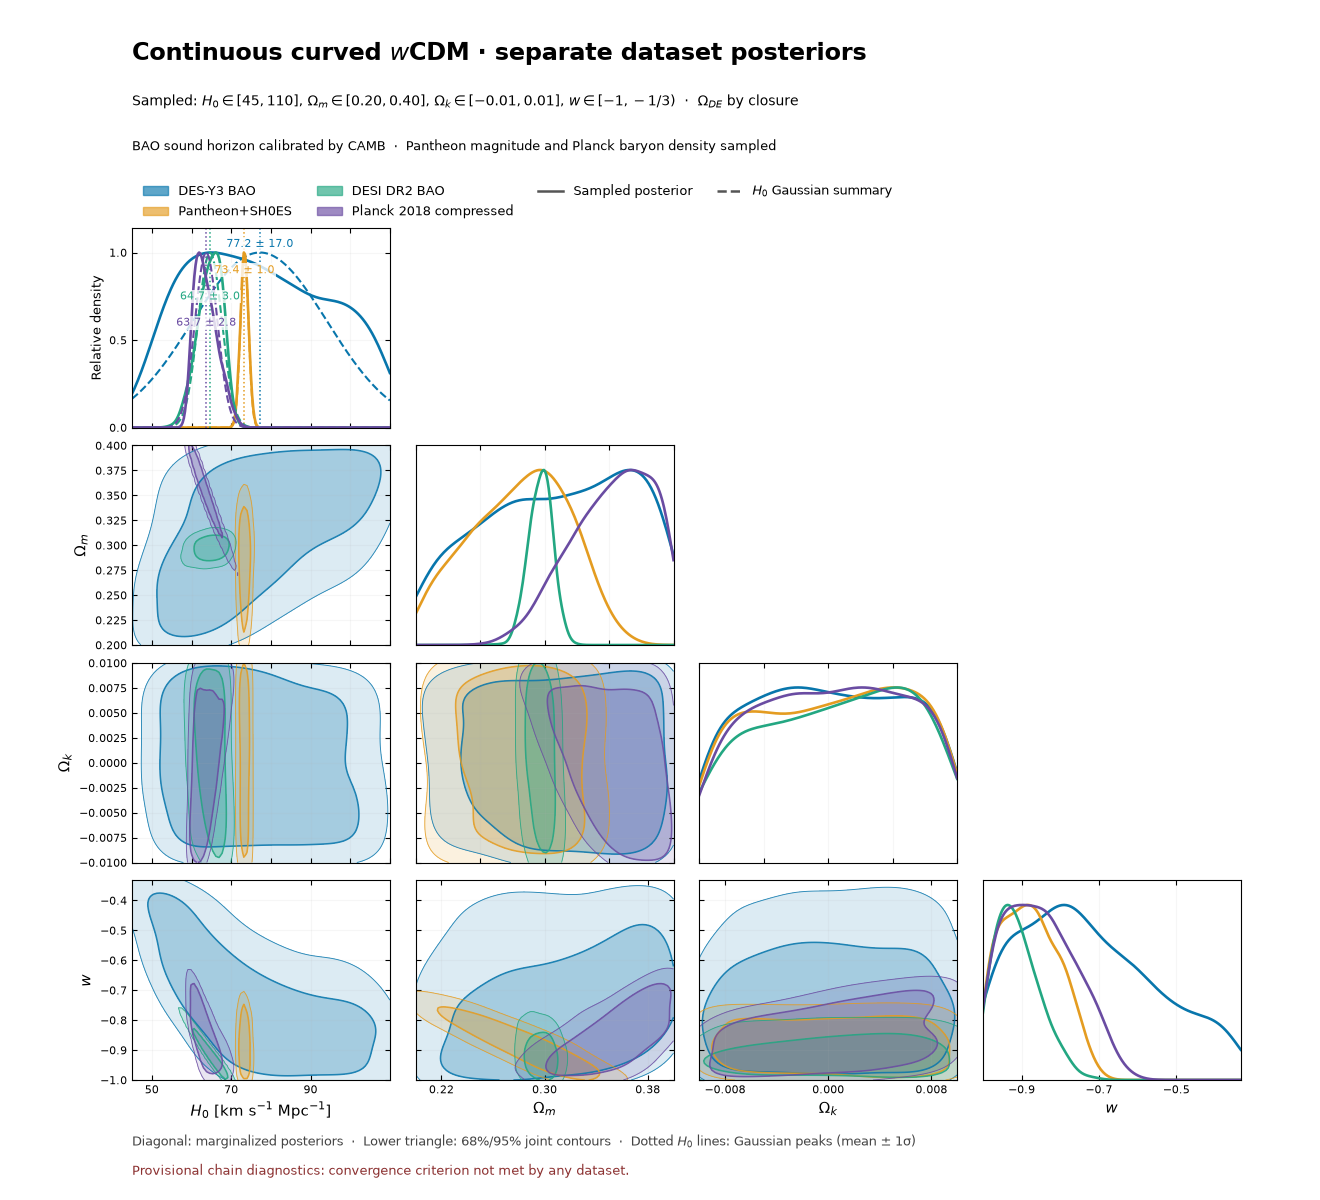
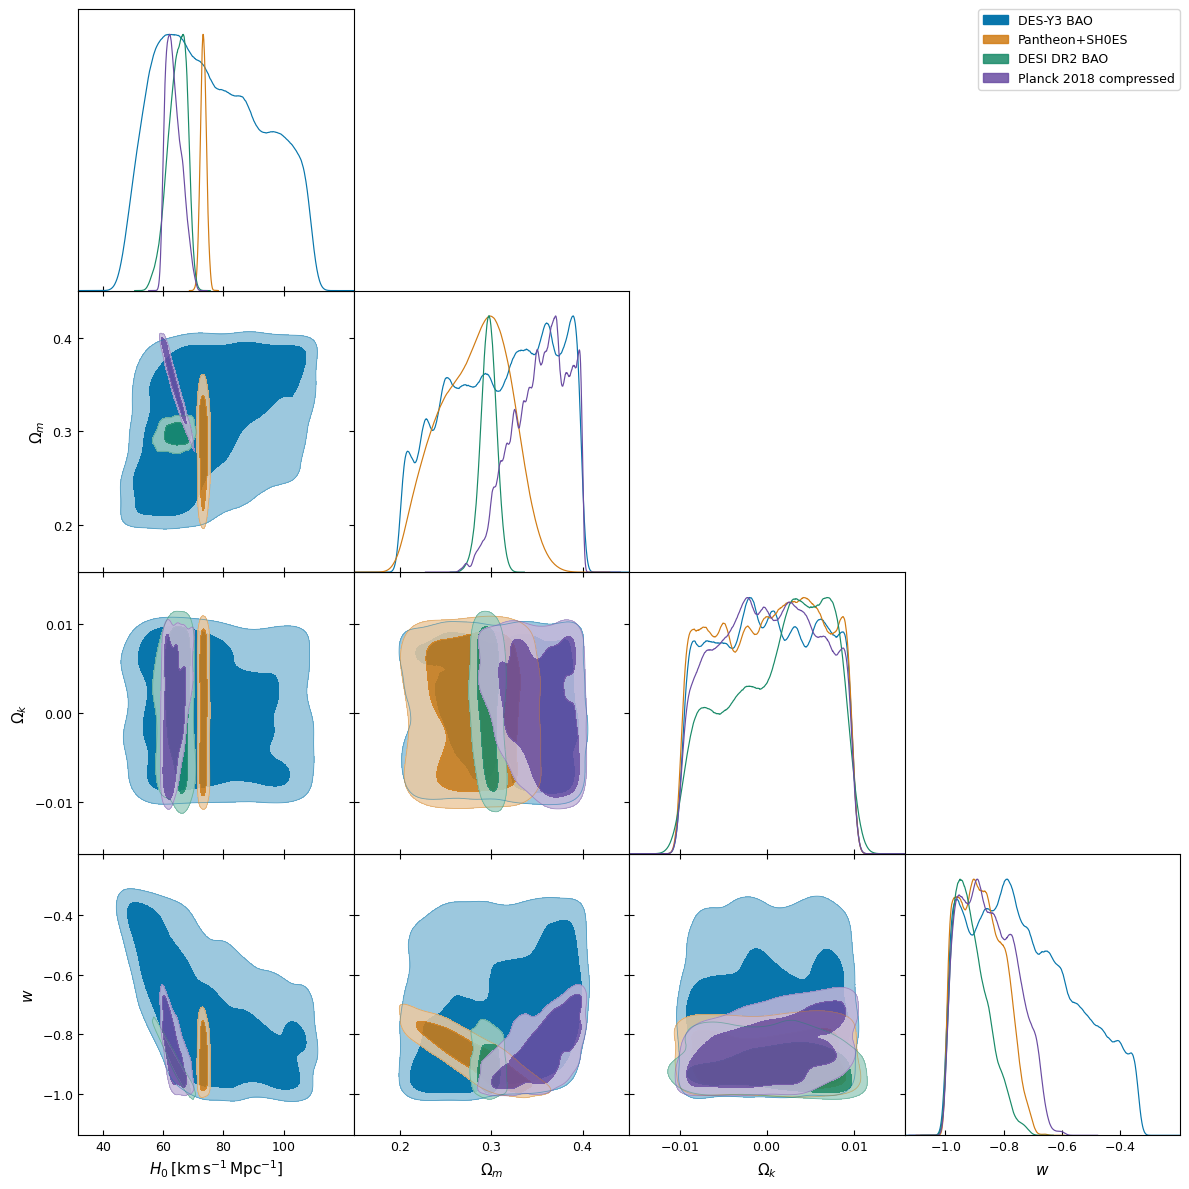
Agent Host changes for agents/add-comments-to-plotting-functions

diff --git a/scripts/hubble_analysis.py b/scripts/hubble_analysis.py
@@ -14,11 +14,6 @@ import sys
 import tempfile
 from pathlib import Path
 
-os.environ.setdefault("MPLCONFIGDIR", os.path.join(tempfile.gettempdir(), "cosmosis_h0_mplconfig"))
-Path(os.environ["MPLCONFIGDIR"]).mkdir(parents=True, exist_ok=True)
-import matplotlib
-matplotlib.use("Agg")
-import matplotlib.pyplot as plt
 import numpy as np
 from scipy.stats import gaussian_kde, norm, skew
 
@@ -285,6 +280,7 @@ def run_fit(label: str, ini_name: str, output_name: str, sampled_params: tuple[s
 
 
 def posterior_samples(path: Path):
+    """Return finite post-burn H0 samples in km/s/Mpc from a saved chain."""
     header, chain = read_chain(path)
     burn = int(chain.shape[0] * 0.3)
     h0 = chain[burn:, :, header.index("cosmological_parameters--h0")].reshape(-1) * 100.0
@@ -292,6 +288,11 @@ def posterior_samples(path: Path):
 
 
 def density_summary(samples: np.ndarray, *, plot_points: int = 512):
+    """Summarize H0 samples and tabulate KDE/Gaussian curves for plotting.
+
+    The plot grid spans the central 99.6% of samples. The Gaussian uses the
+    sample mean and standard deviation as an approximation to the posterior.
+    """
     if len(samples) < 100:
         raise RuntimeError("Too few post-burn-in samples for a posterior summary")
     mu, sd = float(np.mean(samples)), float(np.std(samples, ddof=1))
@@ -307,38 +308,11 @@ def density_summary(samples: np.ndarray, *, plot_points: int = 512):
             "plot_x": x, "plot_kde": empirical, "plot_gaussian": gaussian}
 
 
-def make_figure(summaries: dict[str, dict], out_dir: Path):
-    colors = {"Pantheon+SH0ES": "#b33b3b", "DES-Y3 BAO": "#326a93"}
-    fig, ax = plt.subplots(figsize=(9.2, 5.4))
-    for label, summary in summaries.items():
-        color = colors[label]
-        x = summary["plot_x"]
-        ax.plot(x, summary["plot_gaussian"], color=color, lw=2.6,
-                label=f"{label}: Gaussian peak {summary['mean_and_gaussian_peak']:.2f} ± {summary['gaussian_sigma']:.2f}")
-        ax.plot(x, summary["plot_kde"], color=color, lw=1.5, ls=":", alpha=.85,
-                label=f"{label}: sampled posterior KDE")
-        peak = summary["mean_and_gaussian_peak"]
-        ax.axvline(peak, color=color, lw=1.6, ls="--")
-        label_y_offset = -20 if label == "Pantheon+SH0ES" else 8
-        ax.annotate(f"{peak:.2f}", (peak, norm.pdf(peak, peak, summary["gaussian_sigma"])),
-                    xytext=(4, label_y_offset), textcoords="offset points", color=color, fontsize=9)
-    ax.set(xlabel=r"$H_0$ [km s$^{-1}$ Mpc$^{-1}$]", ylabel="Posterior density",
-           title=(r"Flat $w$CDM: DES-Y3 BAO and Pantheon+SH0ES"
-                  "\n" + r"fixed $\Omega_m=0.30$, $\Omega_k=0$; sampled $w\in[-1,-1/3]$"))
-    ax.grid(alpha=.22)
-    ax.legend(frameon=False, fontsize=8)
-    fig.tight_layout()
-    figure_dir = HERE / "output" / "flat_wcdm"
-    figure_dir.mkdir(parents=True, exist_ok=True)
-    fig.savefig(figure_dir / "h0_gaussian_comparison.png", dpi=220)
-    plt.close(fig)
-
-
 def write_report(summaries: dict[str, dict], convergence: list[dict], out_dir: Path):
     lines = ["# DES-Y3 BAO and Pantheon+SH0ES: Hubble-constant comparison", "",
              "Both likelihoods are fit independently in flat constant-\\(w\\) CDM with \\Omega_m=0.3 fixed. The sampled parameters are \\(H_0\\) and \\(w\\); Pantheon+SH0ES also samples its absolute-magnitude nuisance parameter. DES-Y3 uses the standard early-Universe CAMB sound-horizon calculation with fixed input densities, so its absolute \\(H_0\\) posterior is conditional on that ruler calibration.", "",
              "Inputs are read from the shared standard-library DES-Y3 BAO chi-square profile and Pantheon+SH0ES data/covariance; no likelihood data are copied into this project. The CAMB calibration fixes \\(\\omega_b=0.048\\), \\(A_s=2.19\\times10^{-9}\\), \\(n_s=0.97\\), \\(N_{eff}=3.046\\), and the standard photon temperature.", "",
-             "The figure overlays Gaussian summaries of the marginalized posteriors. Each dashed marker is the Gaussian peak (the posterior sample mean); dotted curves show KDE estimates from the actual samples. The Gaussian is an approximation, assessed with skewness and KDE-to-Gaussian distance.", "",
+             "The Gaussian is an approximation to each marginalized posterior, assessed with skewness and KDE-to-Gaussian distance.", "",
              "## Main physical-prior results", "",
              "| Dataset | Gaussian peak H₀ | 68% posterior interval | Gaussian σ | Skewness | KDE/Gaussian L1 | Samples |", "|---|---:|---:|---:|---:|---:|---:|"]
     for name, summary in summaries.items():
@@ -358,7 +332,7 @@ def write_report(summaries: dict[str, dict], convergence: list[dict], out_dir: P
               "    D --> E",
               "    E --> F[Check integrated autocorrelation and ESS]",
               "    F --> G[Marginalize H0; summarize mean, sigma, and 68% interval]",
-              "    G --> H[Overlay Gaussian peaks and sampled-posterior KDEs]",
+              "    G --> H[Report separate posterior summaries]",
               "    G --> I[Repeat broad-w and +/-1% rd sensitivity fits]",
               "    H --> J[Report separate constraints and calibration dependence]",
               "    I --> J",
@@ -368,7 +342,7 @@ def write_report(summaries: dict[str, dict], convergence: list[dict], out_dir: P
         final = item["history"][-1]
         lines.append(f"- {item['dataset']}: converged with {final['steps_per_walker']:,} steps/walker; steps/\\(\\tau\\) = {', '.join(f'{x:.1f}' for x in final['steps_per_tau'])}; ESS = {', '.join(f'{x:.0f}' for x in final['effective_sample_size'])}.")
     lines += ["", "## Gaussian approximation and sensitivity", "",
-              "The DES-Y3 BAO posterior is much broader than Pantheon+SH0ES and its KDE/Gaussian L1 distance is comparatively large, so its Gaussian curve is a visual summary rather than a complete description. Use the separate 68% interval and dotted KDE when reading its uncertainty. Flat-model broad-\\(w\\) and ±1% \\(r_d\\) sensitivity results are in `../sensitivity/README.md`; the phantom-inclusive prior is phenomenological, and the ruler shifts quantify the BAO calibration dependence.", ""]
+              "The DES-Y3 BAO posterior is much broader than Pantheon+SH0ES and its KDE/Gaussian L1 distance is comparatively large, so its Gaussian summary is not a complete description. Use the separate 68% interval when reading its uncertainty. Flat-model broad-\\(w\\) and ±1% \\(r_d\\) sensitivity results are in `../sensitivity/README.md`; the phantom-inclusive prior is phenomenological, and the ruler shifts quantify the BAO calibration dependence.", ""]
     (out_dir / "README.md").write_text("\n".join(lines))
 
 
@@ -458,14 +432,13 @@ def main():
                                output_subdir=".run-data/flat_wcdm"))
         summaries[label] = density_summary(posterior_samples(HERE / ".run-data" / "flat_wcdm" / chain))
     out_dir = HERE / ".run-data" / "flat_wcdm"
-    make_figure(summaries, out_dir)
     write_report(summaries, results, out_dir)
     serializable = {name: {k: v for k, v in summary.items() if not k.startswith("plot_")}
                     for name, summary in summaries.items()}
     (out_dir / "posterior_summary.json").write_text(json.dumps(serializable, indent=2) + "\n")
     if args.sensitivity:
         run_sensitivity()
-    print(f"Wrote {out_dir / 'h0_gaussian_comparison.png'} and {out_dir / 'README.md'}")
+    print(f"Wrote {out_dir / 'README.md'}")
 
 
 if __name__ == "__main__":

diff --git a/scripts/getdist_corner.py b/scripts/getdist_corner.py
@@ -1,0 +1,90 @@
+"""Render GetDist corner plots from the saved continuous CosmoSIS chains.
+
+The four likelihoods were run independently. The comparison therefore overlays
+only their shared parameters; individual figures include every varied parameter.
+"""
+
+from pathlib import Path
+
+import matplotlib
+
+matplotlib.use("Agg")
+
+import numpy as np
+from getdist import MCSamples, plots
+
+
+ROOT = Path(__file__).resolve().parent.parent
+CHAINS = ROOT / ".run-data" / "continuous"
+FIGURES = ROOT / "output" / "continuous" / "figures"
+BURN_FRACTION = 0.30
+THIN = 10
+COMMON = ("h0", "omega_m", "omega_k", "w")
+PARAMETERS = {
+    "cosmological_parameters--h0": ("h0", r"H_0\,[\mathrm{km}\,\mathrm{s}^{-1}\,\mathrm{Mpc}^{-1}]", 100),
+    "cosmological_parameters--omega_m": ("omega_m", r"\Omega_m", 1),
+    "cosmological_parameters--omega_k": ("omega_k", r"\Omega_k", 1),
+    "cosmological_parameters--w": ("w", "w", 1),
+    "supernova_params--m": ("m", "M", 1),
+    "cosmological_parameters--omega_b": ("omega_b", r"\Omega_b", 1),
+}
+RUNS = (
+    ("des_y3_bao", "DES-Y3 BAO", "#0876ac"),
+    ("pantheonplussh0es", "Pantheon+SH0ES", "#d17b13"),
+    ("desi_dr2_bao", "DESI DR2 BAO", "#198a68"),
+    ("planck_compressed", "Planck 2018 compressed", "#6a4ca2"),
+)
+
+
+def load_chain(stem, label):
+    """Load one CosmoSIS chain as labeled GetDist samples for corner plots.
+
+    Drop the prior/post columns, discard the initial burn fraction, thin the
+    remaining rows, and convert the stored h0 fraction to H0 in km/s/Mpc.
+    """
+    path = CHAINS / f"{stem}.txt"
+    with path.open(encoding="utf-8") as stream:
+        header = stream.readline().removeprefix("#").strip().split("\t")
+    if len(header) < 3 or header[-2:] != ["prior", "post"]:
+        raise ValueError(f"Unexpected CosmoSIS header in {path}")
+    unknown = set(header[:-2]) - PARAMETERS.keys()
+    if unknown:
+        raise ValueError(f"Unrecognised varied parameters in {path}: {sorted(unknown)}")
+    values = np.loadtxt(path, comments="#", delimiter="\t", ndmin=2)
+    if values.shape[1] != len(header) or len(values) < 1000:
+        raise ValueError(f"Incomplete or malformed chain in {path}: {values.shape}")
+    if not np.isfinite(values).all():
+        raise ValueError(f"Nonfinite chain entries in {path}")
+    values = values[int(len(values) * BURN_FRACTION)::THIN, :len(header) - 2]
+    names, labels, scales = zip(*(PARAMETERS[name] for name in header[:-2]))
+    samples = values * np.asarray(scales)
+    return MCSamples(samples=samples, names=list(names), labels=list(labels),
+                     label=label, settings={"ignore_rows": 0})
+
+
+def render(samples, params, colors, labels, destination, width):
+    """Export a filled triangle plot for the chosen samples and parameters."""
+    plotter = plots.get_subplot_plotter(width_inch=width)
+    plotter.settings.num_plot_contours = 2
+    plotter.settings.axes_fontsize = 10
+    plotter.settings.lab_fontsize = 12
+    plotter.settings.legend_fontsize = 10
+    plotter.triangle_plot(samples, params=list(params), filled=True,
+                         contour_colors=list(colors), legend_labels=list(labels),
+                         legend_loc="upper right")
+    plotter.export(str(destination))
+
+
+def main():
+    """Write the shared-parameter overlay and each chain's full corner plot."""
+    FIGURES.mkdir(parents=True, exist_ok=True)
+    chains = [load_chain(stem, label) for stem, label, _ in RUNS]
+    render(chains, COMMON, [color for _, _, color in RUNS],
+           [label for _, label, _ in RUNS], FIGURES / "continuous_corner.png", 12)
+    for chain, (stem, label, color) in zip(chains, RUNS):
+        render([chain], chain.getParamNames().list(), [color], [label],
+               FIGURES / f"continuous_corner_{stem}.png", 10)
+
+
+if __name__ == "__main__":
+    main()

diff --git a/scripts/continuous_postprocess.py b/scripts/continuous_postprocess.py
@@ -26,6 +26,11 @@ COLORS = ("#0876ac", "#e49c21", "#23a782", "#6a4ca2")
 
 
 def contour_levels(density, xs, ys, gx, gy):
+    """Return 95% and 68% KDE levels using sample counts on the KDE grid.
+
+    Ordering cells by density and accumulating their sample counts yields
+    contour thresholds for the empirical credible regions.
+    """
     dx, dy = gx[1] - gx[0], gy[1] - gy[0]
     counts, _, _ = np.histogram2d(xs, ys,
                                   bins=[np.r_[gx - dx / 2, gx[-1] + dx / 2],
@@ -39,7 +44,10 @@ def contour_levels(density, xs, ys, gx, gy):
 
 
 class ContinuousCorner(PostProcessorElement):
+    """Accumulate each independent chain into the comparison plot products."""
+
     def run(self):
+        """Draw one dataset's histograms, H0 summary, and corner contours."""
         index = self.source.index
         if index >= len(DATASETS):
             raise ValueError("Expected one chain for each dataset")
@@ -90,6 +98,7 @@ class ContinuousCorner(PostProcessorElement):
         shared_ax = shared_product.value.axes[index]
         shared_edges = np.linspace(50, 80, 61)
         bin_width = shared_edges[1] - shared_edges[0]
+        # Normalize against the full chain so the visible area shows its fraction in range.
         weights = np.full(len(vectors[0]), 1.0 / (len(vectors[0]) * bin_width))
         shared_ax.hist(vectors[0], bins=shared_edges, weights=weights,
                        color=color, edgecolor="white", linewidth=0.3, alpha=0.86)
@@ -157,6 +166,7 @@ class ContinuousCorner(PostProcessorElement):
                     84, [PARAMETERS[column][2], PARAMETERS[row][2]])
                 outer, inner = contour_levels(density, xs, ys, gx, gy)
                 upper = float(density.max()) * 1.001
+                # Nearly flat or coincident levels cannot define nested contours.
                 if 0 < outer < inner < upper:
                     ax.contourf(gx, gy, density.T, levels=[outer, upper], colors=[color], alpha=0.14)
                     ax.contourf(gx, gy, density.T, levels=[inner, upper], colors=[color], alpha=0.26)
@@ -170,6 +180,7 @@ class ContinuousCorner(PostProcessorElement):
 
     @staticmethod
     def new_histogram_figure(shared=False):
+        """Prepare four H0 histograms, optionally with a common 50-80 axis."""
         fig, axes = plt.subplots(2, 2, figsize=(12.2, 8.8), facecolor="white")
         fig.subplots_adjust(left=0.09, right=0.97, bottom=0.13, top=0.80,
                             hspace=0.34, wspace=0.23)
@@ -206,6 +217,7 @@ class ContinuousCorner(PostProcessorElement):
 
     @staticmethod
     def new_parameter_histogram_figure():
+        """Prepare dataset rows and shared-parameter columns for chain histograms."""
         fig, axes = plt.subplots(4, 4, figsize=(13.2, 11.4), facecolor="white")
         fig.subplots_adjust(left=0.16, right=0.97, bottom=0.10, top=0.84,
                             hspace=0.38, wspace=0.29)
@@ -236,6 +248,7 @@ class ContinuousCorner(PostProcessorElement):
 
     @staticmethod
     def new_h0_figure():
+        """Prepare the axis for overlaid Gaussian H0 summaries from each chain."""
         fig, ax = plt.subplots(figsize=(14.0, 6.4), facecolor="white")
         fig.subplots_adjust(left=0.08, right=0.60, bottom=0.24, top=0.78)
         ax.set_xlim(*PARAMETERS[0][2])
@@ -261,6 +274,7 @@ class ContinuousCorner(PostProcessorElement):
 
     @staticmethod
     def new_figure():
+        """Prepare the four-parameter corner grid and cache its axes for reuse."""
         fig, axes = plt.subplots(4, 4, figsize=(13.2, 12.0), facecolor="white")
         fig.subplots_adjust(left=0.10, right=0.94, bottom=0.10, top=0.81,
                             hspace=0.09, wspace=0.10)

diff --git a/scripts/curved_analysis.py b/scripts/curved_analysis.py
@@ -86,6 +86,7 @@ def validation_grid():
 
 
 def posterior_samples(header, chain):
+    """Extract finite H0 and w samples after burn-in for summaries and plots."""
     burn = int(0.3 * chain.shape[0])
     h0 = chain[burn:, :, header.index("cosmological_parameters--h0")].reshape(-1) * 100.0
     w = chain[burn:, :, header.index("cosmological_parameters--w")].reshape(-1)
@@ -96,6 +97,7 @@ def posterior_samples(header, chain):
 
 
 def summarize(samples):
+    """Keep the H0 statistics used to label the fixed-curvature figures."""
     summary = base.density_summary(samples, plot_points=500)
     return {
         "gaussian_peak_H0": summary["mean_and_gaussian_peak"],
@@ -152,7 +154,6 @@ def write_report(results, convergence):
               "values are in `physics_validation.json`.", "",
               "## Figures and data", "",
               "- `native_postprocess/corner/h0_w_corner.png`: H0–w corner comparison for both datasets; color distinguishes the three fixed Ωk runs. The contours use samples thinned by ten after burn-in.",
-              "- `native_postprocess/`: CosmoSIS-native H0 and w posterior PNG curves, with separate comparisons for each Ωk.",
               "- `curved_summary.json` and `curved_summary.csv`: machine-readable posterior summaries.",
               "- The six CosmoSIS text chains and convergence JSON files are retained alongside the figures.", "",
               "The DES-Y3 BAO sampled H0 posterior rises toward its upper prior bound, "

diff --git a/scripts/continuous_analysis.py b/scripts/continuous_analysis.py
@@ -100,6 +100,7 @@ def fit(label, setting):
 
 
 def summarize(label, chain_name, audit):
+    """Summarize one chain, including the H0 values shown on comparison plots."""
     header, chain = base.read_chain(OUT / chain_name)
     samples = chain[int(0.3 * len(chain)):].reshape(-1, len(header))
     get = lambda name: samples[:, header.index("cosmological_parameters--" + name)]
@@ -217,11 +218,8 @@ def write_report(results, audits):
                   "datasets are not multiplied into a joint estimate. This "
                   "two-chain study does not measure sensitivity to alternate "
                   "prior bounds or early-Universe calibration choices.", "",
-                  "- `figures/continuous_corner.png`: CosmoSIS "
-                  "postprocessor corner figure with sampled marginals and "
-                  "joint contours, plus dashed H0 Gaussian approximations.",
-                  "- `figures/continuous_h0.png`: enlarged H0 sampled "
-                  "posterior and Gaussian comparison with labelled peak lines.",
+                  "- `figures/continuous_corner.png`: GetDist corner overlay "
+                  "for the four shared sampled parameters.",
                   "- `summary.json` and `.csv`: numerical summaries.",
                   "- `physics_validation.json`: all 16 prior-corner checks for "
                   "density closure and positive E(z)² over 0 ≤ z ≤ 3.",

diff --git a/scripts/corner_postprocess.py b/scripts/corner_postprocess.py
@@ -21,7 +21,11 @@ W_RANGE = (-1.5, -1.3)
 
 
 def credible_levels(density, h0, w, h0_grid, w_grid):
-    """Use sample counts to select the 68% and 95% KDE contour levels."""
+    """Return outer/inner KDE thresholds enclosing 95%/68% of the samples.
+
+    Histogram counts on the KDE grid supply the enclosed probability; the
+    density only determines which cells are visited first.
+    """
     h0_step = h0_grid[1] - h0_grid[0]
     w_step = w_grid[1] - w_grid[0]
     h0_edges = np.r_[h0_grid - h0_step / 2, h0_grid[-1] + h0_step / 2]
@@ -39,6 +43,7 @@ class CurvedCorner(PostProcessorElement):
     """One CosmoSIS plot product, filled by six independent chain inputs."""
 
     def run(self):
+        """Add one chain's marginals and joint contours to its dataset panel."""
         index = self.source.index
         if index >= 6:
             raise ValueError("Expected three fixed-curvature chains per dataset")
@@ -79,6 +84,7 @@ class CurvedCorner(PostProcessorElement):
 
     @staticmethod
     def _new_figure():
+        """Create paired H0-w corner panels and cache their axes for later chains."""
         fig = plt.figure(figsize=(14.2, 6.7), facecolor="white")
         layout = fig.add_gridspec(2, 5, left=0.065, right=0.965, bottom=0.13,
                                  top=0.78, hspace=0.04, wspace=0.07,

diff --git a/scripts/native_plot_tweaks.py b/scripts/native_plot_tweaks.py
@@ -26,9 +26,11 @@ COLORS = ("#bb3f4b", "#277da1", "#8661aa")
 
 
 class CurvedPosteriorPresentation(Tweaks):
+    """Restyle CosmoSIS marginal plots for a fixed-curvature run group."""
     filename = ["cosmological_parameters--h0", "cosmological_parameters--w"]
 
     def run(self):
+        """Label native posterior curves and add Gaussian H0 summaries when available."""
         group = os.environ["COSMOSIS_FIGURE_GROUP"]
         title, omega_k, labels = GROUPS[group]
         parameter = self.info[0]

diff --git a/README.md b/README.md
@@ -14,7 +14,7 @@ Each dataset has its own CosmoSIS pipeline. All four continuously sample \(H_0\)
 
 DES-Y3 contributes a transverse BAO distance at effective redshift 0.835. DESI DR2 contributes BAO distances across seven redshift bins. Both use CAMB's calculated sound horizon under stated early-Universe inputs, including fixed \(\Omega_b=0.048\); neither includes a BBN observational likelihood. Pantheon+SH0ES also samples the supernova magnitude nuisance parameter. The Planck comparison samples \(\Omega_b\) and uses a deliberately simplified likelihood for the acoustic scale and physical matter densities. It is **not** the full Planck power-spectrum analysis.
 
-The saved chains were marginalized over the other sampled parameters to obtain an \(H_0\) distribution for each dataset. A Gaussian was then fitted descriptively with its center at the chain mean and its width at one sample standard deviation. Histograms show the actual sampled shapes, including departures from a Gaussian. A vertical line marks each Gaussian center.
+The saved chains were marginalized over the other sampled parameters to obtain an \(H_0\) distribution for each dataset. A Gaussian was then fitted descriptively with its center at the chain mean and its width at one sample standard deviation. The corner plots show the sampled one-dimensional distributions on the diagonal and joint parameter contours below it.
 
 ## What the current runs show
 
@@ -27,9 +27,7 @@ The saved chains were marginalized over the other sampled parameters to obtain a
 
 **These numbers are provisional diagnostics, not reported measurements.** None of the four chains passed the agreed autocorrelation convergence rule within the maximum of three checks per dataset. Their centers and widths could change with better exploration of parameter space, so this study does not yet quantify a statistically reliable \(H_0\) discrepancy.
 
-![Separate Gaussian summaries of H0 from the four pipelines](output/continuous/figures/continuous_h0.png)
-
-The Gaussian figure uses a common \(H_0\) axis. The [four histograms on a 50–80 km s⁻¹ Mpc⁻¹ axis](output/continuous/figures/continuous_h0_histograms_50_80.png) show the sampled distributions on a shared scale; only 55% of DES-Y3's broad chain falls in that window. The [full-range histograms](output/continuous/figures/continuous_h0_histograms.png), [parameter histograms](output/continuous/figures/continuous_parameter_histograms.png), and [joint-parameter plot](output/continuous/figures/continuous_corner.png) show the wider distributions and relationships among \(H_0\), \(\Omega_m\), \(\Omega_k\), and \(w\). Earlier fixed-curvature results are preserved as [PNG figures](output/curved/native_postprocess/corner/h0_w_corner.png).
+The [GetDist corner overlay](output/continuous/figures/continuous_corner.png) assigns a different colour to each independent probe and compares the four shared parameters. Full corner plots for [DES-Y3 BAO](output/continuous/figures/continuous_corner_des_y3_bao.png), [Pantheon+SH0ES](output/continuous/figures/continuous_corner_pantheonplussh0es.png), [DESI DR2 BAO](output/continuous/figures/continuous_corner_desi_dr2_bao.png), and [compressed Planck](output/continuous/figures/continuous_corner_planck_compressed.png) show every sampled parameter in each chain, including Pantheon's magnitude nuisance parameter and Planck's baryon density. The earlier [fixed-curvature corner plot](output/curved/native_postprocess/corner/h0_w_corner.png) compares \(H_0\) and \(w\) for those runs.
 
 ## What needs improvement
 
